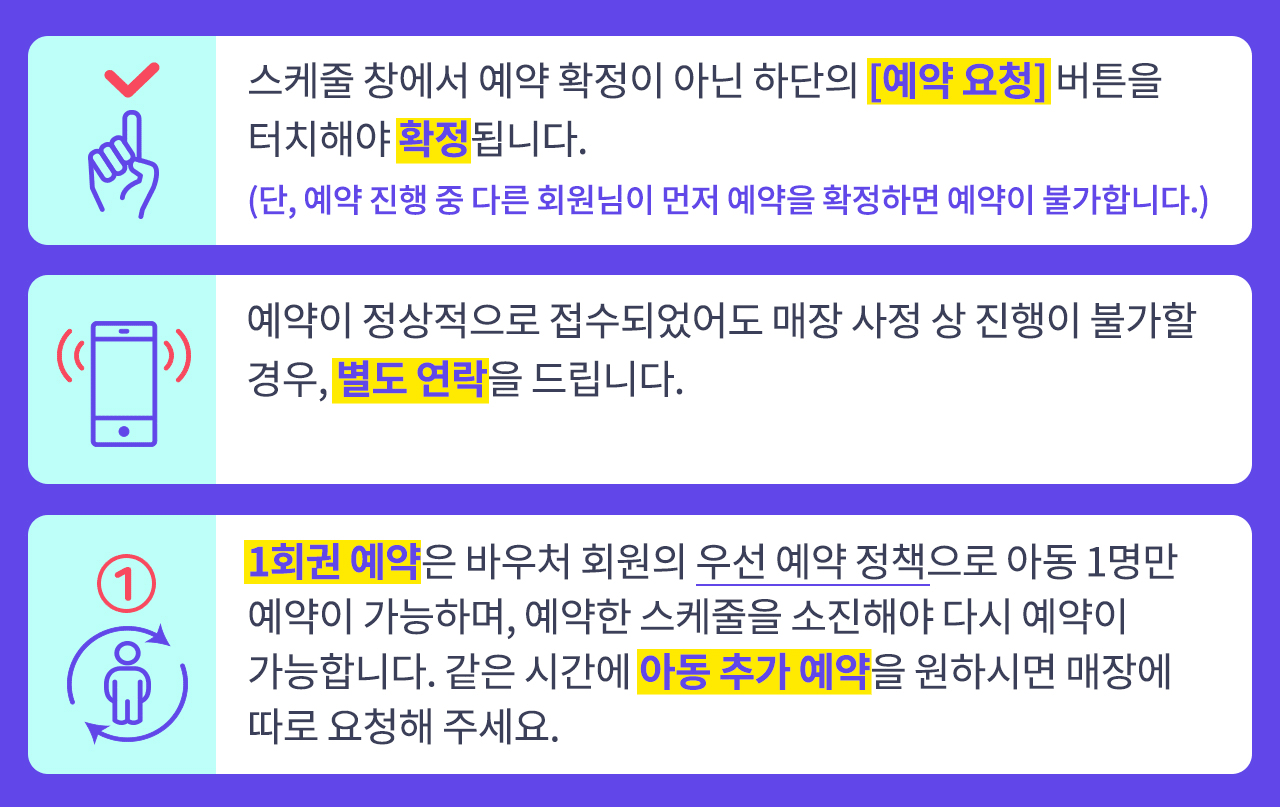
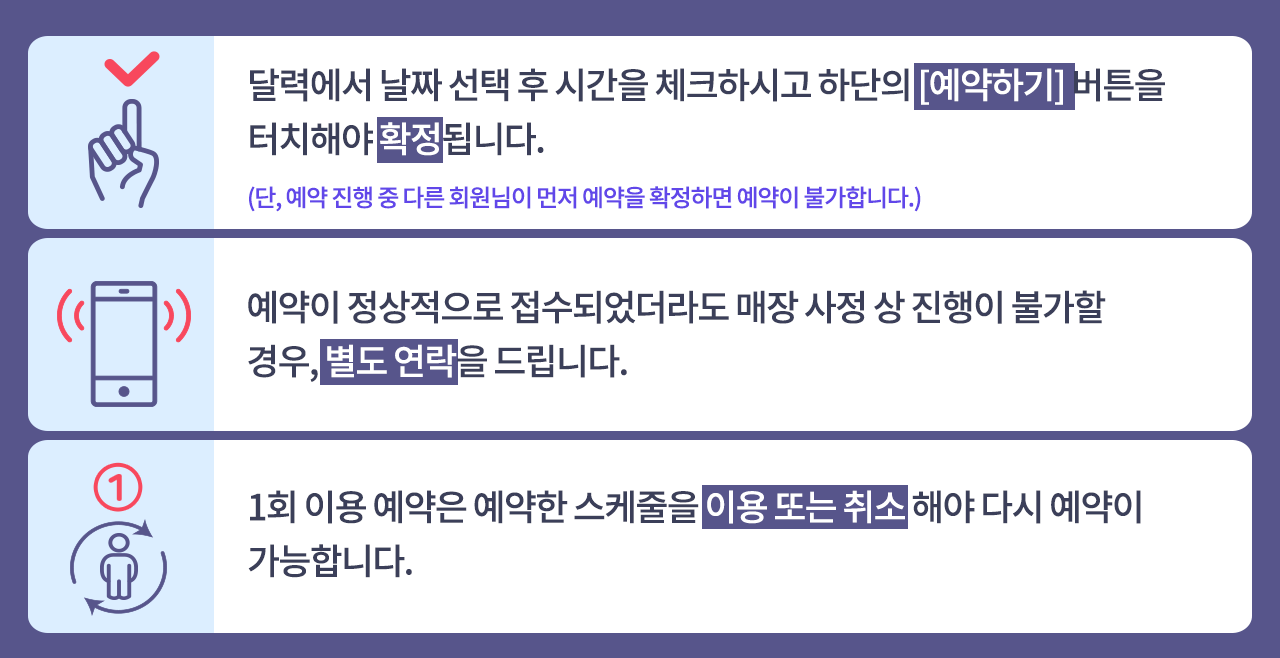
20210701 수정요청사항 반영

diff --git a/src/main/resources/templates/reservation/shortRegist.html b/src/main/resources/templates/reservation/shortRegist.html
@@ -7,15 +7,16 @@
      	<form class="form theme-form" id="reservationForm" @submit.prevent="validateBeforeSubmit" th:action="@{/reservation/regist.proc}" method="post">
      	<input type="hidden" id="cellPhone" name="cellPhone" th:value="${cellPhone}">
         <div class="section full mt-0">
-            <img src="http://ssem.myds.me/rinfo2.png" alt="image" class="imaged square w-100">  
+            <!-- <img src="http://ssem.myds.me/rinfo2.png" alt="image" class="imaged square w-100">   -->
+            <img th:src="@{/assets/img/rinfo2.png}" alt="image" class="imaged square w-100">
         </div>
         <div class="section mt-0">
-            <div class="section-title"><font color="blue">바우처선택</font></div>
-            <code style="font-size: 12px;"><font color="red">BASIC바우처는 1회만 예약이 됩니다. 추가예약은 불가하며, 이용 후 다시 재예약이 가능합니다.</font></code>
+            <div class="section-title">바우처</div>
+            <code style="font-size: 12px;"><font color="red">지점 방문 후 직접 결제해주셔야 하는 이용권입니다.</font></code>
             <div class="row" style="margin-left: 0px; margin-right: 0px;">
                 <div class="col-6" th:each="list, i : ${voucherList}">
                     <div class="frb-group">
-                        <div class="frb frb-success">
+                        <div class="frb frb-primary">
                             <input type="radio" th:id="'voucherNo' + ${i.index}" name="voucherNo" th:value="${list.voucherNo}" th:data-storeId="${list.storeId}" th:data-timeLeftHour="${list.timeLeftHour}" v-validate="'required'">
                             <label th:for="'voucherNo' + ${i.index}">
                                 <span class="frb-title" th:text="${list.ticketName}"></span><br>
@@ -26,11 +27,11 @@
                     </div>
                 </div>
             </div>
-            <div class="section-title"><font color="blue">아동선택</font></div>
+            <div class="section-title">예약자</div>
             <div class="row" style="margin-left: 0px; margin-right: 0px;">
                 <th:block th:each="list, i : ${childList}">
                 <div class="col-4">
-                    <div class="frb frb-info">
+                    <div class="frb frb-primary">
                         <input type="checkbox" th:id="'childName' + ${i.index}" name="childName" th:value="${list.childName}" v-validate="'required'">
                         <label th:for="'childName' + ${i.index}">
                             <span class="frb-title" th:text="${list.childName}"></span>
@@ -40,12 +41,12 @@
                 </div>
                 </th:block>
             </div>
-            <div class="section-title"><font color="blue">놀이구분선택</font></div>
+            <div class="section-title">프로그램</div>
             <div class="row" style="margin-left: 0px; margin-right: 0px;">
                 <th:block th:each="list,i : ${voucherAttributeList}">
                 <div class="col-4">
                     <div class="frb-group">
-                        <div class="frb frb-success">
+                        <div class="frb frb-primary">
                         	<th:block th:if="${list.attribute == 'CLASS'}">
                         		<input type="radio" th:id="'classType-' + ${i.index}" name="classType" value="CLASS_A">
                         	</th:block>
@@ -70,7 +71,7 @@
                     </div>
                 </div>
             </div>
-            <div class="section-title"><font color="blue">센터선택</font></div>
+            <div class="section-title">방문지점</div>
             <div class="row" style="margin-left: 0px; margin-right: 0px;">
                 <div class="form-group basic">
                     <div class="input-wrapper">
@@ -80,20 +81,20 @@
                     </div>
                 </div>
             </div><br>
-            <div class="section-title"><font color="blue">선택결과</font></div>
+            <div class="section-title">선택결과</div>
             <div class="row" style="margin-left: 0px; margin-right: 0px;">
                 <div class="col-12">
                     <p style="font-size:7px">
-                        <span class="badge badge-primary">{{voucherTimeLeftHour}}시간</span> |
+                        <!--<span class="badge badge-primary">{{voucherTimeLeftHour}}시간</span> |-->
                         <span class="badge badge-info">{{reservationCnt}}명</span> |
                         <span class="badge badge-info">{{classType}}</span> |
                         <span class="badge badge-info">{{storeId}}</span>
                     </p>
                 </div>
             </div><br>
-            <div class="section-title"><font color="blue">스케쥴조회</font></div>
-            <div class="row" style="margin-left: 0px; margin-right: 0px;">
-                <div class="col-12">
+            <div class="section-title">스케쥴조회</div>
+            <div class="row" >
+                <div class="col-12" style="margin-left: 0px; margin-right: 0px;">
                     <button id="cal" data-toggle="modal" data-target="#ModalForm" type="button" class="btn btn-primary btn-lg btn-block">
                         <ion-icon name="calendar-outline"></ion-icon>
                     </button>
@@ -107,8 +108,8 @@
                     	<div class="frb frb-primary">
                         	<input type="checkbox" :id="'scheduleId-' + index" name="scheduleId" :value="item.scheduleId" v-validate="'required'">
                             <label :for="'scheduleId-' + index">
-	                            <span class="frb-title" v-if="classType == '튜터링'">{{item.scheduleStart}} | 잔여 {{item.tutoringCnt}} | 튜터링</span>
-	                            <span class="frb-title" v-else>{{item.scheduleStart}} | 잔여 {{item.reservationCnt}} | {{item.playName}}</span>
+	                            <span class="frb-title" v-if="classType == '튜터링'">{{item.scheduleStart}} | 잔여 {{item.tutoringCnt}} | 튜터링 | {{item.subTopic}}</span>
+	                            <span class="frb-title" v-else>{{item.scheduleStart}} | 잔여 {{item.reservationCnt}} | {{item.playName}} | {{item.subTopic}}</span>
 <!-- 	                            <span class="frb-description" style="font-size: 9px;">{{item.subTopic}}</span> -->
                             </label>
                         </div>
@@ -144,7 +145,7 @@
         <div class="fixed-footer">
             <div class="row">
                 <div class="col-12">
-                    <button id="registBtn" class="btn btn-primary btn-lg btn-block" type="submit">등록완료</button>
+                    <button id="registBtn" class="btn btn-primary btn-lg btn-block" type="submit">예약하기</button>
                 </div>
             </div>
         </div>

diff --git a/src/main/resources/templates/fragments/appSidebar.html b/src/main/resources/templates/fragments/appSidebar.html
@@ -59,7 +59,6 @@
 	                            <a th:href="@{/reservation/regist.view}" class="item">
 	                                <div class="icon-box bg-primary">
                                         <ion-icon name="calendar-outline"></ion-icon>
-
 	                                </div>
 	                                <div class="in">
 	                                    <div>실시간 예약</div>
@@ -67,9 +66,8 @@
 	                            </a>
 	                        </li>
 	                        </th:block>
-<!-- 							<th:block th:if="${session.memberVo.memberType == 'NV' || session.memberVo.memberType == '모바일'}"> -->
-							<th:block th:if="${session.memberVo.cellPhone == '01099448282' || session.memberVo.cellPhone == '01037171701' || session.memberVo.cellPhone == '01011112222' || session.memberVo.cellPhone == '01091091806'}">
-	                        <li>
+							<th:block th:if="${session.memberVo.memberType == 'NV' || session.memberVo.memberType == '바우처' || session.memberVo.memberType == '모바일'}">
+							<!-- <li>
 	                            <a th:href="@{/reservation/free.view}" class="item">
 	                                <div class="icon-box bg-primary">
 	                                    <ion-icon name="rocket-outline"></ion-icon>
@@ -79,8 +77,8 @@
 	                                    <span class="badge badge-danger"></span>
 	                                </div>
 	                            </a>
-	                        </li>
-	                        <li>
+	                        </li> -->
+                           <li>
 	                            <a th:href="@{/reservation/shortRegist.view}" class="item">
 	                                <div class="icon-box bg-primary">
 	                                    <ion-icon name="stopwatch-outline"></ion-icon>

diff --git a/src/main/resources/templates/member/childUpdate.html b/src/main/resources/templates/member/childUpdate.html
@@ -7,9 +7,12 @@
         <form class="form theme-form" id="memberForm" @submit.prevent="validateBeforeSubmit"
             th:action="@{/member/childUpdate.proc}" method="post">
             <input type="hidden" id="childName" name="childName" th:value="${info.childName}">
-            <div class="section full mt-2 mb-2">
+            <div class="section full mt-0 mb-1">
+                <img th:src="@{/assets/img/warning.png}" alt="image" class="imaged square w-100">
+            </div>
+            <div class="section full mt-1 mb-1">
                 <div class="section-title">자녀정보수정</div>
-                <div class="wide-block pb-1 pt-1">
+                <div class="wide-block pb-1 pt-0">
                     <div class="form-group basic">
                         <div class="input-wrapper">
                             <label class="label" for="childName">이름[자녀이름수정불가]</label>
@@ -69,7 +72,7 @@
             </div>
             <div class="wide pt-2 pb-2">
             	<button type="submit" class="btn btn-warning btn-block btn-lg">자녀정보수정</button>
-            	<button type="button" class="btn btn-primary btn-block btn-lg" th:attr="onclick=|deleteChild('${info.childName}')|">자녀정보삭제</button>
+            	<!--<button type="button" class="btn btn-primary btn-block btn-lg" th:attr="onclick=|deleteChild('${info.childName}')|">자녀정보삭제</button>-->
         	</div>
    		</form>    	
     </div>

diff --git a/src/main/resources/templates/member/info.html b/src/main/resources/templates/member/info.html
@@ -134,7 +134,12 @@
 	                                            <th scope="row" th:text="${list.visitDate}"></th>
 	                                            <td th:text="${list.storeName}"></td>
 	                                            <td th:text="${list.ticketName}"></td>
+	                                            <th:block th:if="${list.ticketName == '1회권'}">
+	                                            <td>-</td>
+	                                            </th:block>
+	                                            <th:block th:unless="${list.ticketName == '1회권'}">
 	                                            <td th:text="${list.useTime}"></td>
+	                                            </th:block>
 	                                            <!--<td th:text="${list.playName}"></td>-->
 	                                        </tr>
                                     	</th:block>

diff --git a/src/main/resources/templates/member/childAdd.html b/src/main/resources/templates/member/childAdd.html
@@ -8,7 +8,10 @@
 	    <form class="form theme-form" id="memberForm" @submit.prevent="validateBeforeSubmit" th:action="@{/member/childAdd.proc}" method="post">
 		<input type="hidden" id="cellPhone" name="cellPhone" th:value="${cellPhone}">
 		<input type="hidden" id="parentName" name="parentName" th:value="${parentName}">
-		<div class="section full mt-2 mb-2">
+        <div class="section full mt-0 mb-1">
+            <img th:src="@{/assets/img/warning.png}" alt="image" class="imaged square w-100">
+        </div>
+		<div class="section full mt-1 mb-2">
             <div class="section-title">자녀추가등록</div>
             <div class="wide-block pb-1 pt-1">
                 <div class="form-group basic">

diff --git a/src/main/resources/templates/member/join.html b/src/main/resources/templates/member/join.html
@@ -108,8 +108,10 @@
         </div>
 
         <div class="section full mt-2 mb-2">
+            <div class="section full mt-1 mb-1">
+                <img th:src="@{/assets/img/warning.png}" alt="image" class="imaged square w-100">
+            </div>
             <div class="section-title" style="font-size:18px;">자녀정보</div>
-            <div class="section-title" style="font-size:14px color; "><span class="badge badge-success">회원가입 후 자녀 추가 및 수정 가능</span></div>
             <div class="wide-block pb-1 pt-1">
 	            <div class="form-group basic" style="padding-top:15px;">
 	                <div class="input-wrapper">

diff --git a/src/main/resources/templates/main.html b/src/main/resources/templates/main.html
@@ -16,7 +16,7 @@
                             <p class="card-text"><small th:text="|최근방문 : ${visitSummary.visitDate}|"></small></p>
                         </th:block>
                         <th:block th:unless="${visitSummary != null}">
-                            <p class="card-text"><small>방문이력 없음</small></p>
+                            <p class="card-text"><small>안녕하세요.</small></p>
                         </th:block>
                     </th:block>
                     <th:block th:unless="${session.memberVo != null}">

diff --git a/src/main/resources/static/assets/js/crevill/reservationScript.js b/src/main/resources/static/assets/js/crevill/reservationScript.js
@@ -177,10 +177,13 @@ $('input[name="childName"]').change(function(){
 setTimeout(function() {
 //강제이벤트 발생
 $('input[name="voucherNo"]').trigger('click');
+}, 1000);
+
+setTimeout(function() {
 $('input[name="childName"]').trigger('click');
 $("input[name='classType']:radio").trigger('change');
 setReservationCalendar();
-}, 1500);
+}, 2000);
 
 function setReservationCalendar(){
 	

diff --git a/src/main/resources/templates/member/childList.html b/src/main/resources/templates/member/childList.html
@@ -38,6 +38,9 @@
                 </a>
             </li>
             </th:block>
+            <div class="section full mt-1 mb-1">
+                <a href="http://pf.kakao.com/_xoFKuxb/chat" target="_blank"><img th:src="@{/assets/img/kakao_banner.png}" alt="image" class="imaged square w-100"></a>
+            </div>
         </ul>
     </div>
 </th:block>

diff --git a/src/main/java/kr/co/crevill/main/MainController.java b/src/main/java/kr/co/crevill/main/MainController.java
@@ -113,6 +113,7 @@ public class MainController {
 		scheduleDto.setScheduleType("ING");
 		mav.addObject("reservationList", reservationService.selectReservationList(scheduleDto));
 		VoucherSaleDto voucherSaleDto = new VoucherSaleDto();
+		voucherSaleDto.setIsBasic("false");
 		voucherSaleDto.setLimit(1);
 		voucherSaleDto.setBuyCellPhone(SessionUtil.getSessionMemberVo(request).getCellPhone());
 		mav.addObject("voucherList", voucherService.getMemberVoucherList(voucherSaleDto));
